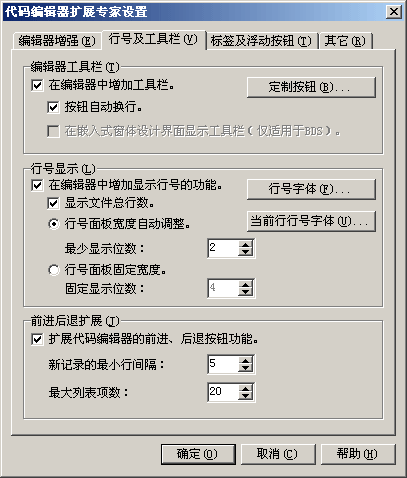
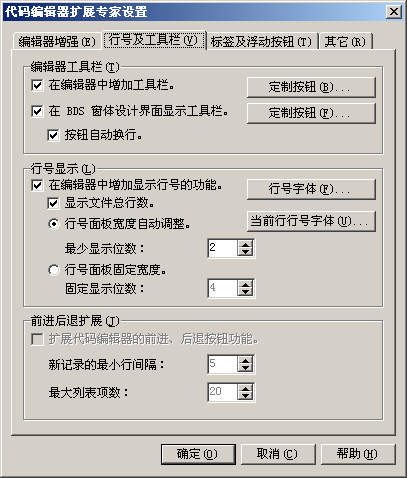
* [Help] 更新帮助文件 / Update Help files.

diff --git a/cnwizards/Help/CnWizards_ENU/srcedtenh/srcedttoolbar.htm b/cnwizards/Help/CnWizards_ENU/srcedtenh/srcedttoolbar.htm
@@ -61,7 +61,7 @@
     <p class="text"><b>Show Toolbar in Editor</b>: Whether show the toolbar in code editor.</p>
   </li>
   <li>
-    <p class="text"><b>Show Editor Toolbar in Embedded Designer</b>: Whether show the toolbar in BDS Embedded VCL Designer. Only enabled in BDS.</p>
+    <p class="text"><b>Show Toolbar in BDS Embedded Designer</b>: Whether show the toolbar in BDS Embedded VCL Designer. Only enabled in BDS.</p>
   </li>
   <li>
     <p class="text"><b>Customize Buttons</b>: Customize toolbar buttons, see before.</p>

diff --git a/cnwizards/Help/CnWizards_ENU/other/history.htm b/cnwizards/Help/CnWizards_ENU/other/history.htm
@@ -29,6 +29,7 @@
 <p class="title">2009.09.xx V0.9.4</p>
 <p class="indentnarrow">+ Add Support to Delphi 2010.</p>
 <p class="indentnarrow">+ Line Number Supports BDS.</p>
+<p class="indentnarrow">+ Add ToolBar to BDS Embedded Designer.</p>
 <p class="indentnarrow">* Add Popup Option after Key Sequence in Input Helper.</p>
 <p class="indentnarrow">* Support Regular Expression Search in Units/Forms/Procedure List.</p>
 <p class="indentnarrow">* Fix an Auto Enter "end" Problem in Source Enhancement.</p>
